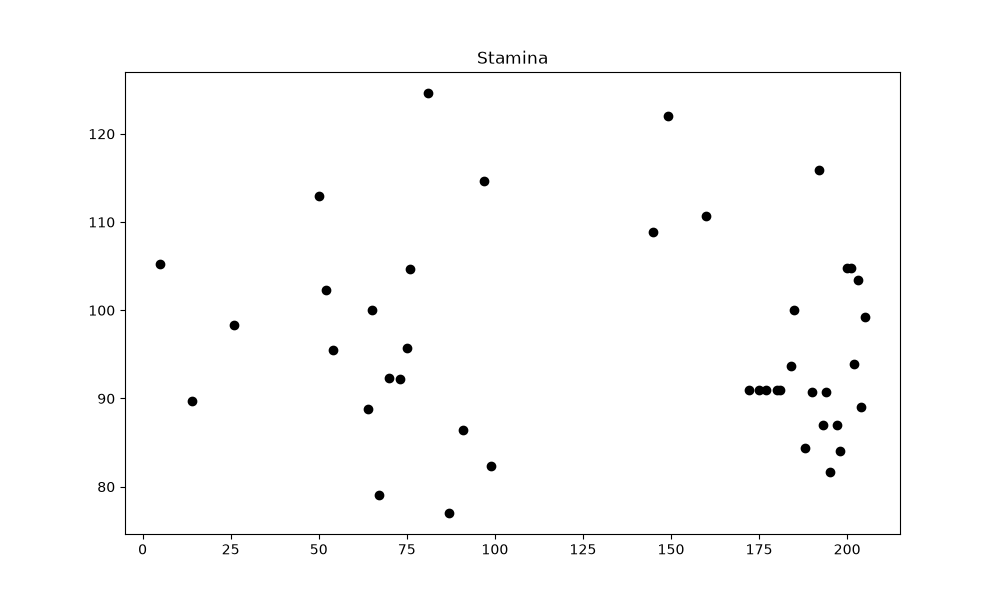
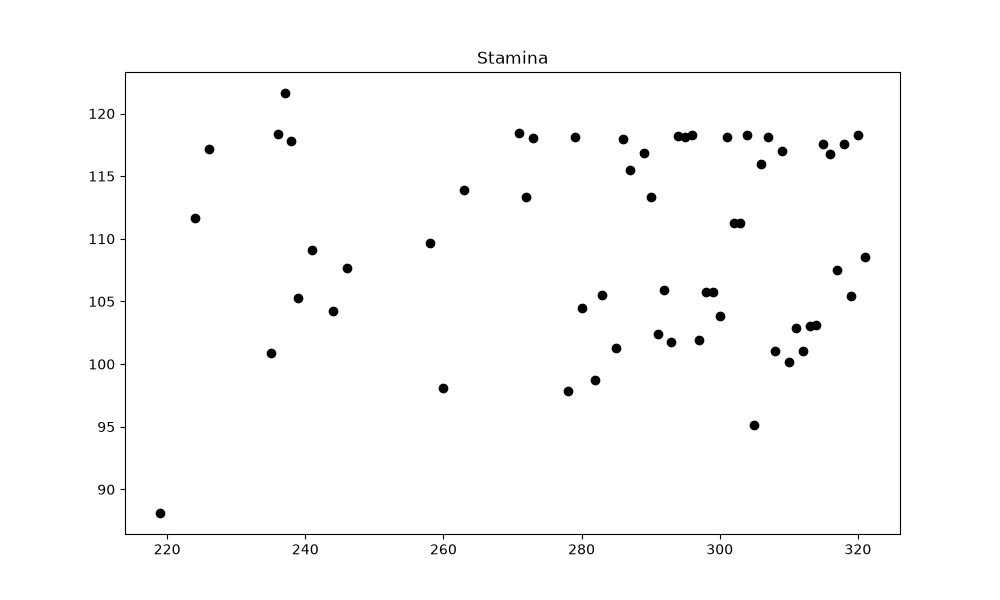
パラメータの調整

diff --git a/base_code/model/organism.py b/base_code/model/organism.py
@@ -17,8 +17,8 @@ SPEED_MIN = 1
 SPEED_MAX = 3
 
 #餌を感知できる範囲
-RANGE_FOOD_DETECTION_MIN = 40
-RANGE_FOOD_DETECTION_MAX = 75
+RANGE_FOOD_DETECTION_MIN = 25
+RANGE_FOOD_DETECTION_MAX = 60
 
 #繁殖距離とクールダウン
 REPRODUCTION_DISTANCE = 5
@@ -62,8 +62,8 @@ class Organism:
             self.reproduction_cooldown -= 1
 
 
-    def _clip_gene(self, value, min_value, max_value):
-        return max(min_value, min(max_value, value))
+    """def _clip_gene(self, value, min_value, max_value):
+        return max(min_value, min(max_value, value))"""
     
     def reproduce(self, child_id, width, height, gender, partner, current_frame, a_drive, b_drive):
         # 親からの遺伝子を算術交叉で計算して子の遺伝子とする(突然変異で±10%の範囲で変化、確率は5%)
@@ -122,13 +122,15 @@ class Organism:
         self.update_reproduction_cooldown()  # 繁殖クールダウンを更新
         target_food = None
         min_dist = float("inf")
-        
+
+        # 餌の中で最も近いものを探す
         for food in food_list:
             dist = np.linalg.norm(food.position - self.position)
             if dist < min_dist and dist <= self.detection_range:
                 min_dist = dist
                 target_food = food
 
+        # 目標の餌が見つかった場合、その方向に向かって移動する
         if target_food is not None:
             dx, dy = target_food.position - self.position
             self.direction = np.arctan2(dy, dx)
@@ -151,7 +153,7 @@ class Organism:
             self.position[1] = np.abs(self.position[1] - self.height)
 
         #体力消費の処理
-        self.stamina -= int(0.7 * (self.speed / SPEED_MIN)) # 移動速度に応じて体力を消費
+        self.stamina -= 0.2 + (0.2 * self.speed) # 移動速度に応じて体力を消費
         if self.stamina <= 0:
             self.stamina = 0
             self.velocity = np.zeros(2)

diff --git a/base_code/main.py b/base_code/main.py
@@ -66,13 +66,23 @@ def display_genes(org_list):
     plt.savefig("stamina.png")
     plt.close()
 
+    plt.figure(figsize=(10, 6))
+    plt.scatter([org.org_id for org in org_list], detection_range_values, color="black", marker="o")
+    plt.title("detection_range")
+    plt.savefig("detection.png")
+    plt.close()
 
+    plt.figure(figsize=(10, 6))
+    plt.scatter([org.org_id for org in org_list], speed_values, color="black", marker="o")
+    plt.title("speed")
+    plt.savefig("speed.png")
+    plt.close()
 
 
 def main():
     width, height = 500, 500
     flame_count = 0
-    max_flame = 750
+    max_flame = 900
     gender = [1, 2] # 1:オス, 2:メス
     if VISUALIZE:
         pygame.init()
@@ -84,9 +94,9 @@ def main():
     org_list = []
     for i in range(ORG_NUM):
         if (i + 1) % 20 == 0:
-            genotype = ("W","D") #遺伝子ドライブ保持個体を20個体に1個体ずつ生成*5個体はこっち
+            genotype = ["W","D"] #遺伝子ドライブ保持個体を20個体に1個体ずつ生成*5個体はこっち
         else:
-            genotype = ("W","W") #遺伝子ドライブ非保持個体*95個体はこっち
+            genotype = ["W","W"] #遺伝子ドライブ非保持個体*95個体はこっち
         org = Organism(i, width, height, random.choice(gender), drive_genotype=genotype)
         org_list.append(org)
     food_list = [Food((random.uniform(0, width), random.uniform(0, height))) for _ in range(FOOD_NUM)]
